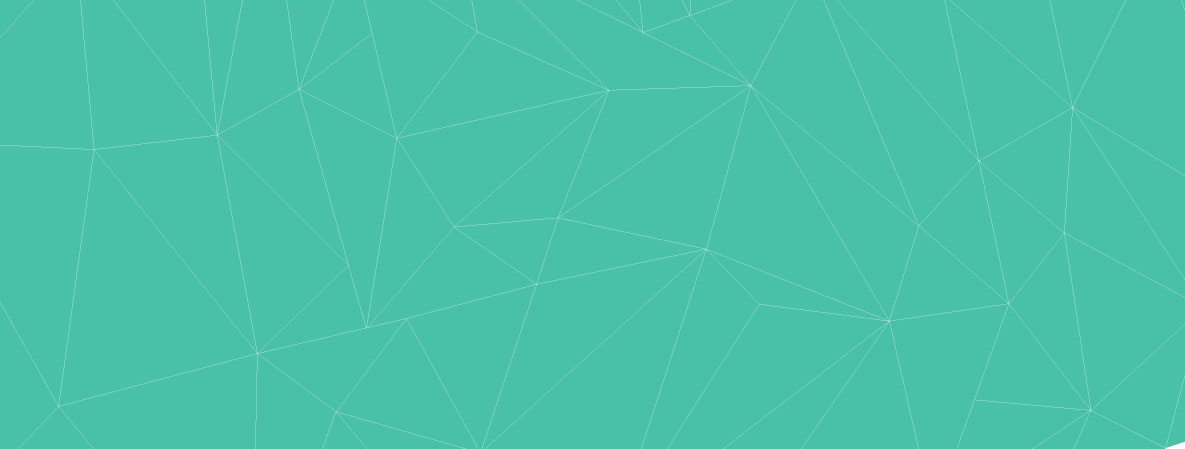
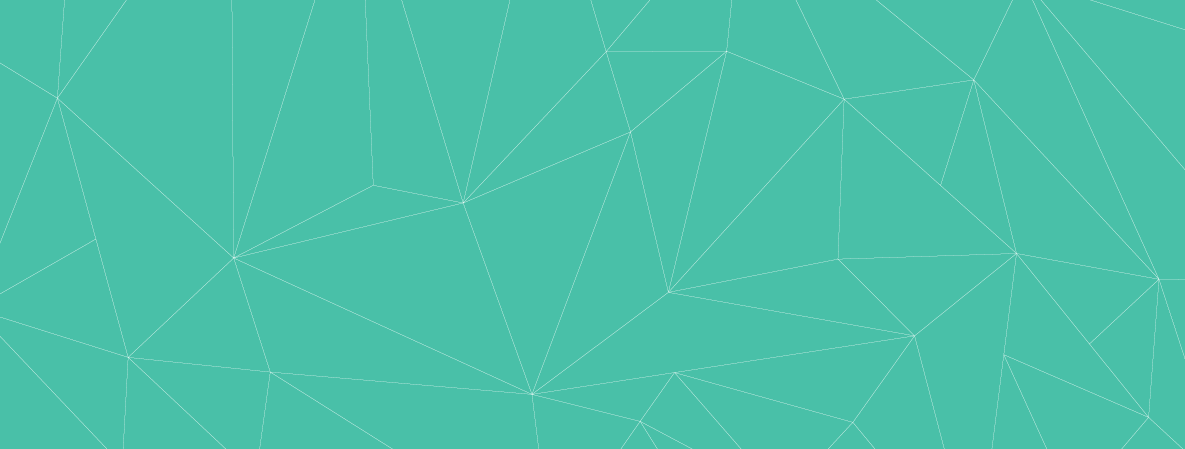
more finalized

diff --git a/port-index.html b/port-index.html
@@ -6,9 +6,13 @@
 	<link rel="stylesheet" type="text/css" href="css/port-styles.css">
 	<meta name=“viewport” content=“width=device-width, initial-scale=1”>
 	<meta charset="utf-8">
+	<!--[if lt IE 9]>
+  <script src="https://oss.maxcdn.com/html5shiv/3.7.2/html5shiv.min.js"></script>
+  <script src="https://oss.maxcdn.com/respond/1.4.2/respond.min.js"></script>
+<![endif]-->
 </head>
 <body>
-<div class="container-fluid">
+
 
 <div class="navbar-header">
   <button type="button" class="navbar-toggle" data-toggle="collapse" data-target="#bs-example-navbar-collapse-1">
@@ -20,7 +24,7 @@
   <a class="col-xs-4 col-sm-3 col-md-2 navbar-brand" href="index.html"></a>
 </div>
 
-<div class="class="collapse navbar-collapse" id="bs-example-navbar-collapse-1"">
+<div class="nav-bar" collapse navbar-collapse" id="bs-example-navbar-collapse-1"">
 	<ul class="nav nav-justified">
 		<li><a href="#about">ABOUT</a></li>
 		<li><a href="#work">WORK</a></li>
@@ -28,57 +32,58 @@
 	</ul>
 </div>
 	
-	<div id="header">
+	<div class="background-header">
+	<div class="container-fluid" id="header">
 		<div id="logo">
 			<img src="images/logoMAIN.png" alt="My Logo">
 		</div>
 	</div>
+	</div>
 	
-	<div class="design-types container-fluid">
-		<img class="img-padding" src="images/print-pictogram.png">
+<div class="container-fluid white">
+	<div class="design-types col-lg-6 col-md-6 col-sm-6">
+		<img class="print-pictogram" src="images/print-pictogram.png">
 		
 		<h2>DESIGN <span class="color-accent">FOR</span> PRINT</h2>
 		
-		<p class="col-xs-10 col-xs-offset-1 col-sm-8 col-sm-offset-2 col-md-6 col-md-offset-3 col-lg-6 col-lg-offset-3">Lorem Ipsum is simply dummy text of the printing and typesetting industry. Lorem Ipsum has been the industry's standard dummy text ever since the.</p>
-		
-		<img src="images/web-pictogram.png">
+		<p class="col-xs-10 col-xs-offset-1 col-sm-8 col-sm-offset-2 col-md-6 col-md-offset-3 col-lg-6 col-lg-offset-3">I'm proficient with InDesign, Illustrator, and Photoshop so every aspect of a print project can be done from start to finish. Keeping the end product in mind at all times is key to creating a well-designed printed peice.</p>
+	</div>	
+	
+	<div class="design-types col-lg-6 col-md-6 col-sm-6">	
+		<img class="web-pictogram" src="images/web-pictogram.png">
 		
 		<h2>DESIGN <span class="color-accent">FOR</span> WEB</h2>
 		
-		<p class="col-xs-10 col-xs-offset-1 col-sm-8 col-sm-offset-2 col-md-6 col-md-offset-3 col-lg-6 col-lg-offset-3">Lorem Ipsum is simply dummy text of the printing and typesetting industry. Lorem Ipsum has been the industry's standard dummy text ever since the.</p>
+		<p class="col-xs-10 col-xs-offset-1 col-sm-8 col-sm-offset-2 col-md-6 col-md-offset-3 col-lg-6 col-lg-offset-3">The world of web design is growing at a rapid rate, almost on a daily basis. Keeping up with the newest applications and trends gives the client the most possible options to adhere to the end-goal.</p>
 	</div>
+</div>
+	
 
-	<div id="about" class="region green">			
-		<div class="container-fluid">
-			<h1 class="white-heading">HELLO, I'M JOHN.</h1>
-				<div class="col-xs-10 col-xs-offset-1 col-sm-8 col-sm-offset-2 col-md-6 col-md-offset-3 col-lg-6 col-lg-offset-3">
-					<p>"Lorem Ipsum is simply dummy text of the printing and typesetting industry. Lorem Ipsum has been the industry's standard dummy text ever since the 1500s, when an unknown printer took a galley of type and scrambled it to</br> </br>It has survived not only five centuries, but also the leap into electronic typesetting, remaining essentially unchanged. It was popularised in the 1960s with the release of Letraset sheets containing Lorem Ipsum passages, and more recently with desktop publishing software like Aldus PageMaker including versions of Lorem Ipsum."</p>
-				</div>
-		</div>
+	<div id="about" class="green container-fluid">			
+		<h1 class="white-heading">HELLO, I'M JOHN.</h1>
+			<p class="col-xs-10 col-xs-offset-1 col-sm-8 col-sm-offset-2 col-md-6 col-md-offset-3 col-lg-6 col-lg-offset-3">My name is John Nuevo and I'm a Graphic Designer from West Virginia. I currently attend West Virginia University and will be graduating in the spring with my BFA. Since I was young, I've always shown a strong interest in drawing and painting so aesthetics is something I've always been used to.</br> </br>With design, even more important than aesthetics is the end goal. I always try to utilize every ounce of skills I have in an attempt to determine physical, cultural, and cognitive factors when designing a project to ensure a positive response from the target audience.</p>
 	</div>
 	
 	<div id="work">
-		<div>
-			<h1>LOOK AT MY WORK.</h1>
+		<h1>LOOK AT MY WORK.</h1>
 			<div class="container-fluid row">
-				<img class="bottom-padding img-responsive" src="images/work.jpg" alt="My Logo">
-				<img class="bottom-padding img-responsive"  src="images/work.jpg" alt="My Logo">
-				<img class="bottom-padding img-responsive"  src="images/work.jpg" alt="My Logo">
-				<img class="bottom-padding img-responsive"  src="images/work.jpg" alt="My Logo">
-				<img class="bottom-padding img-responsive img-responsive" src="images/work.jpg" alt="My Logo">
-				<img class="bottom-padding img-responsive"  src="images/work.jpg" alt="My Logo">
-				<img class="bottom-padding img-responsive"  src="images/work.jpg" alt="My Logo">
-				<img class="bottom-padding img-responsive"  src="images/work.jpg" alt="My Logo">
+				<img class="bw bottom-padding col-lg-6 col-md-6 col-sm-6 col-xs-12 img-responsive" src="images/work.jpg" alt="My Logo">
+				<img class="bw bottom-padding col-lg-6 col-md-6 col-sm-6 col-xs-12 img-responsive"  src="images/work.jpg" alt="My Logo">
+				<img class="bw bottom-padding col-lg-6 col-md-6 col-sm-6 col-xs-12 img-responsive"  src="images/work.jpg" alt="My Logo">
+				<img class="bw bottom-padding col-lg-6 col-md-6 col-sm-6 col-xs-12 img-responsive"  src="images/work.jpg" alt="My Logo">
+				<img class="bw bottom-padding col-lg-6 col-md-6 col-sm-6 col-xs-12 img-responsive" src="images/work.jpg" alt="My Logo">
+				<img class="bw bottom-padding col-lg-6 col-md-6 col-sm-6 col-xs-12 img-responsive"  src="images/work.jpg" alt="My Logo">
+				<img class="bw bottom-padding col-lg-6 col-md-6 col-sm-6 col-xs-12 img-responsive"  src="images/work.jpg" alt="My Logo">
+				<img class="bw bottom-padding col-lg-6 col-md-6 col-sm-6 col-xs-12 img-responsive"  src="images/work.jpg" alt="My Logo">
 			</div>
-		</div>
 	</div>
 
-	<div id="about" class="region black">			
+	<div id="contact" class="black">			
 		<div class="container-fluid">
 			<h1 class="white-heading">KEEP IN TOUCH.</h1>
 				<form class="container-fluid" action="">
 					
-					<div>
+					<div class="col-xs-10 col-xs-offset-1 col-sm-8 col-sm-offset-2 col-md-6 col-md-offset-3 col-lg-3 col-lg-offset-3">
 					<label class="form-font"><span class="form-label">NAME</span><br><input class="form-field" id="POST-name" type="text" name="name"></label>
 
 					
@@ -96,14 +101,14 @@
 				
 					<br><br>
 
-					<button type="button"><span class="form-font">Submit</span></button>
+					<button class="submit-button" type="button"><span class="form-font">Submit</span></button>
 					</div>
 
 				</form>
 		</div>
 	</div>
 
-	<div id="contact" class="region green">			
+	<div class="green">			
 
 		<div class="container-fluid">
 			<div class="message">
@@ -119,7 +124,6 @@
 
 	</div>
 
-</div>
 </div>
 
  <script src="https://ajax.googleapis.com/ajax/libs/jquery/1.11.1/jquery.min.js"></script>

diff --git a/css/port-styles.css b/css/port-styles.css
@@ -1,13 +1,11 @@
 body
 {
-margin: 8px;	
+margin-bottom: 5px;	
 }
 
 ul
 {
 list-style-type: none;
-margin: 0;
-padding-top:20px;
 text-align: center;
 font-family: oswald;
 font-size: 12pt;
@@ -43,6 +41,7 @@ text-align: center;
 padding-top: 50px;
 font-size: 75px;
 line-height: 1.3;
+padding-bottom: 20px;
 }
 
 h2
@@ -65,9 +64,14 @@ padding-top: 20px;
 padding-bottom: 50px;
 }
 
+.grey
+{
+background-color: black;	
+}
+
 .green
 {
-background-color: #4FBFA7;
+background: url("../images/background-image.gif")
 }
 
 .black
@@ -99,11 +103,6 @@ letter-spacing: 7px;
 color: #4FBFA7;	
 }
 
-.design-types
-{
-background-color: white;	
-}
-
 .img-padding
 {
 padding-top: 50px;	
@@ -119,16 +118,18 @@ border-color: #C7C8CA;
 .form-font
 {
 font-family: oswald;
+font-size: 18px;
 }
 
 .form-label
 {
-color: white;
+color: #C7C8CA;
+font-size: 18px;
 }
 
 input
 {
-width:450px;	
+width: 450px;	
 height: 35px;
 }
 
@@ -149,11 +150,6 @@ button:hover
 background-color: #4FBFA7;	
 }
 
-.bottom-padding
-{
-padding-bottom: 20px;
-}
-
 a
 {
 color: #4FBFA7;
@@ -164,6 +160,30 @@ a:hover
 color: #4FBFA7;	
 }
 
+.submit-button
+{
+margin-bottom: 40px;
+height: 50px;
+width: 120px;
+}
+
+.bw {
+  -webkit-transition: all 1s ease;
+  -moz-transition: all 1s ease;
+  -o-transition: all 1s ease;
+  -ms-transition: all 1s ease;
+  transition: all 1s ease;
+}
+ 
+.bw:hover {
+  -webkit-filter: grayscale(100%);
+}
+
+.background-header
+{
+background-image: url(../images/background-header.gif)	
+}
+
 @media (max-width: 767px) {
 
 .black
@@ -171,17 +191,115 @@ color: #4FBFA7;
 display: none;
 }
 
+#logo
+{
+padding-top: 100px;	
+padding-bottom: 150px;
+}
+
+.print-pictogram
+{
+padding-top: 60px;	
+}
+
+.bottom-padding
+{
+padding-bottom: 20px;	
+}
+
+.navbar-brand button
+{
+}
+
+h1
+{
+font-size: 60px;	
+}
+
+h2
+{
+font-size: 30px;	
+}
+
 }
 
 @media (min-width: 768px) {
+
+.nav-bar
+{
+position: fixed;	
+background-color: white;
+height: 80px;
+z-index: 1;
+}
+
+#logo
+{
+padding-top: 250px;	
+padding-bottom: 300px;
+}
+
+.nav-bar
+{
+position: fixed;	
+background-color: white;
+height: 42px;
+z-index: 1;
+}
+
+.bottom-padding
+{
+padding-bottom: 30px;
+}
+
+.design-types
+{
+padding-top: 60px;	
+}
 
 }
 
 @media (min-width: 992px) {
 
+.nav-bar
+{
+position: fixed;	
+background-color: white;
+height: 42px;
+z-index: 1;
+}
+
+.bottom-padding
+{
+padding-bottom: 30px;
+}
+
+.design-types
+{
+padding-top: 60px;	
+}
+
 }
 
 @media (min-width: 1200px) {
+
+.nav-bar
+{
+position: fixed;	
+background-color: white;
+height: 42px;
+z-index: 1;
+}
+
+.bottom-padding
+{
+padding-bottom: 30px;
+}
+
+.design-types
+{
+padding-top: 60px;	
+}
 
 }
 
